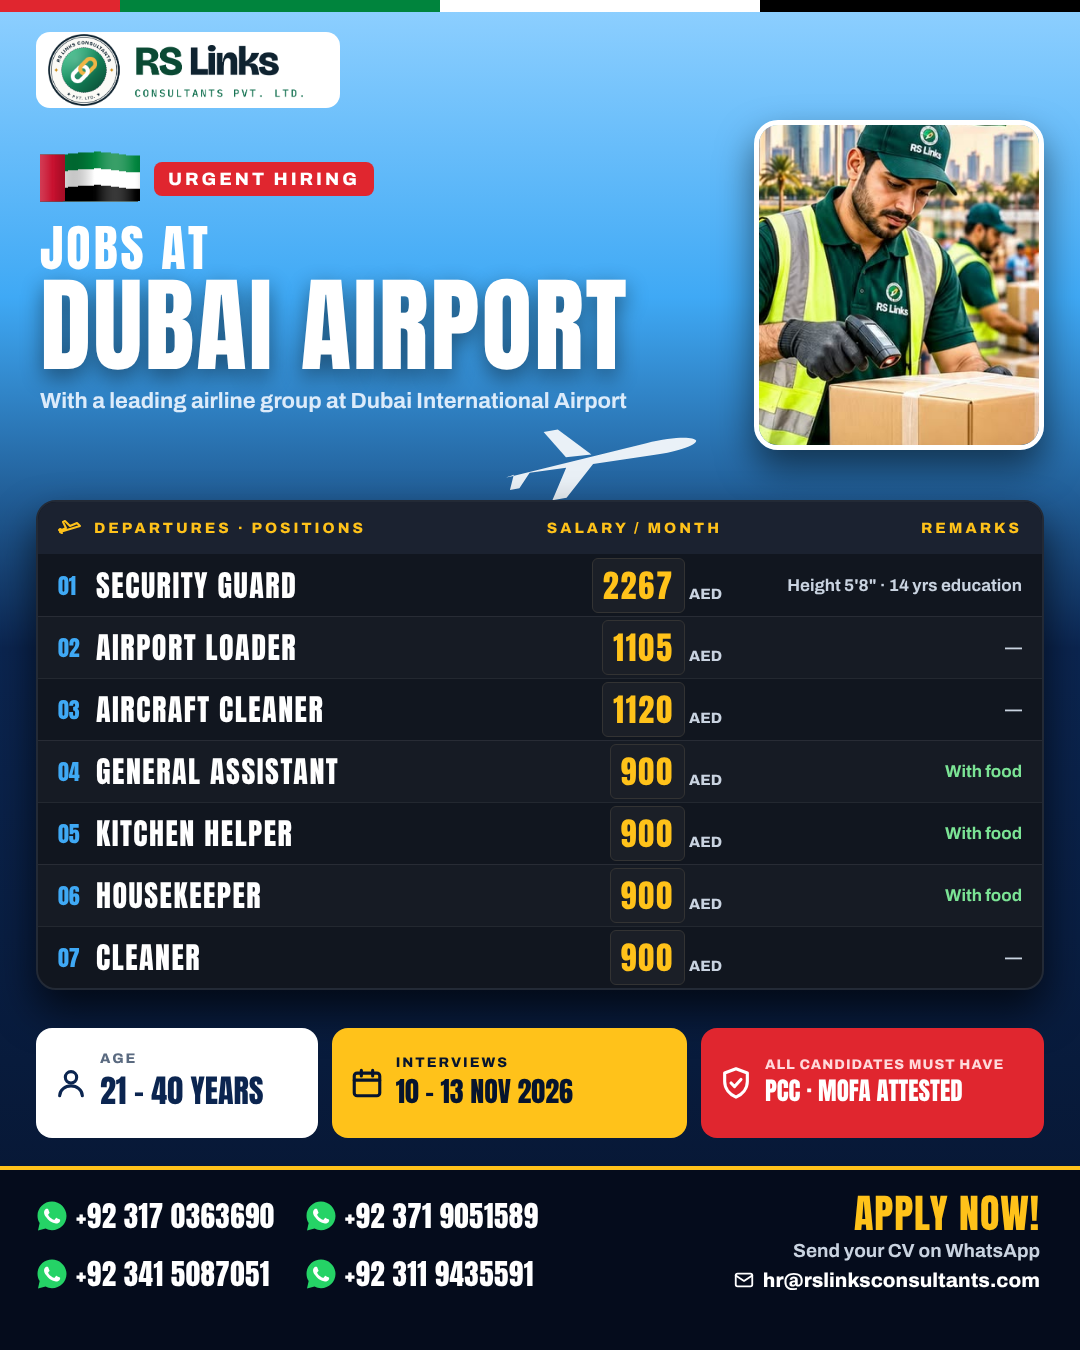
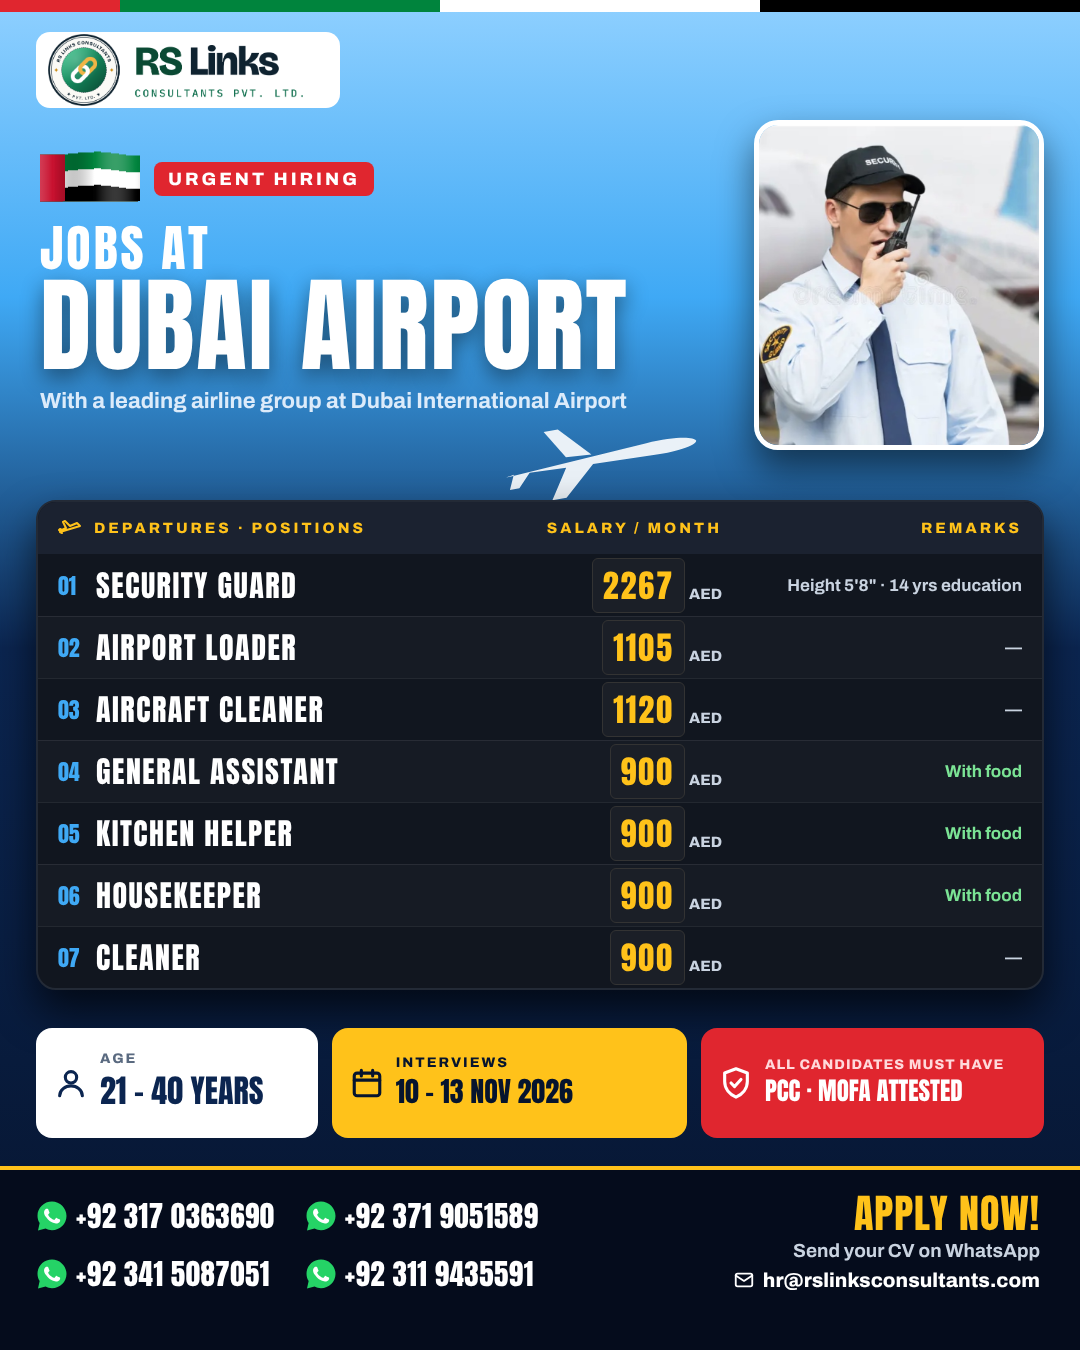
Dubai Airport ad: airport security guard photo
Claude-Session: https://claude.ai/code/session_01YJ5ofgU8QCiWTsYR9pvXG4

Changed region(s): [[0.7028, 0.0933, 0.9778, 0.3422]]

diff --git a/src/dubai_airport.py b/src/dubai_airport.py
@@ -16,7 +16,7 @@ def plane():
 
 
 def build():
-    hero = (PHOTOS / "rslinks_worker_hero.png").as_uri()
+    hero = (PHOTOS / "security_airport.jpg").as_uri()
     rows = "".join(f"<div style='display:flex;align-items:center;height:62px;padding:0 20px;border-top:{'0' if i == 0 else '1px solid #ffffff14'};background:{'#ffffff06' if i % 2 else 'transparent'}'>"
                    f"<span style='width:38px;font:400 22px Anton;color:{SKY}'>{i + 1:02d}</span>"
                    f"<span style='flex:1;font:400 30px Anton;color:#fff;letter-spacing:1.5px'>{t}</span>"
@@ -35,7 +35,7 @@ def build():
  <div style='font:400 104px Anton;color:#fff;letter-spacing:2px;line-height:1;text-shadow:0 8px 22px #0007'>DUBAI AIRPORT</div>
  <div style='font:700 22px Archivo;color:#DCEBFA;margin-top:12px'>With a leading airline group at Dubai International Airport</div></div>
 <div class='abs' style='top:120px;right:36px;width:290px;height:330px;border-radius:24px;overflow:hidden;border:5px solid #fff;box-shadow:0 18px 36px #0008'>
- <img src='{hero}' style='width:100%;height:100%;object-fit:cover;object-position:center 22%'></div>
+ <img src='{hero}' style='width:100%;height:100%;object-fit:cover;object-position:30% 20%'></div>
 
 <div class='abs' style='top:500px;left:36px;right:36px;border-radius:20px;overflow:hidden;background:#11161F;box-shadow:0 20px 40px #000a;border:2px solid #232A36'>
  <div style='display:flex;align-items:center;height:52px;padding:0 20px;background:#1B2230;font:800 15px Archivo;color:{AMBER};letter-spacing:3px'>
